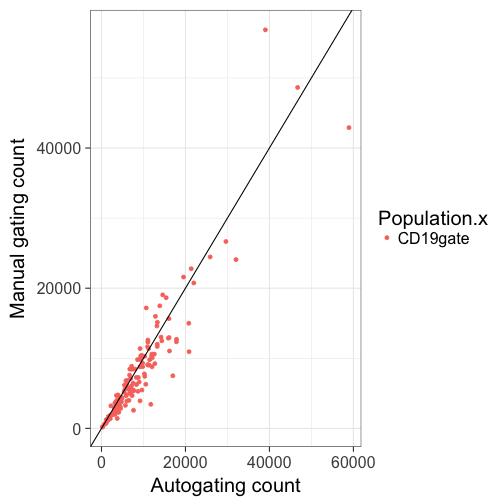
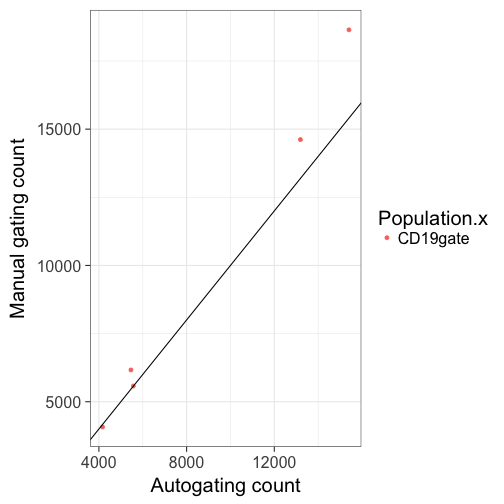
:floppy_disk:

diff --git a/report/rep1.md b/report/rep1.md
@@ -80,16 +80,16 @@ class: esmall-table
 ![plot of chunk unnamed-chunk-1](rep1-figure/unnamed-chunk-1-1.png)
 
 
-| N_SAMPS| N_DATA|    RHO|  BETA| BETA_SE|     R2|  ICC_1|
-|-------:|------:|------:|-----:|-------:|------:|------:|
-|     151|   2265| 0.9867| 1.015|  0.0014| 0.9956| 0.9977|
+| N_SAMPS| N_DATA|    RHO|   BETA| BETA_SE|     R2|  ICC_1|
+|-------:|------:|------:|------:|-------:|------:|------:|
+|       5|     75| 0.9356| 0.9228|  0.0102| 0.9911| 0.9918|
 ***
 ![plot of chunk unnamed-chunk-3](rep1-figure/unnamed-chunk-3-1.png)
 
 
 | N_SAMPS| N_DATA|    RHO|   BETA| BETA_SE|     R2|  ICC_1|
 |-------:|------:|------:|------:|-------:|------:|------:|
-|     151|   2265| 0.9811| 0.9879|  0.0029| 0.9809| 0.9903|
+|       5|     75| 0.8775| 0.8928|   0.043| 0.8551| 0.9251|
 
 Lymphocytes (SSC-A v FSC-A)
 ========================================================
@@ -98,16 +98,16 @@ class: esmall-table
 ![plot of chunk unnamed-chunk-5](rep1-figure/unnamed-chunk-5-1.png)
 
 
-| N_SAMPS| N_DATA|    RHO|  BETA| BETA_SE|     R2|  ICC_1|
-|-------:|------:|------:|-----:|-------:|------:|------:|
-|     151|    151| 0.9883| 1.014|  0.0078| 0.9913| 0.9954|
+| N_SAMPS| N_DATA| RHO|   BETA| BETA_SE|     R2|  ICC_1|
+|-------:|------:|---:|------:|-------:|------:|------:|
+|       5|      5| 0.9| 0.9475|  0.0612| 0.9876| 0.9692|
 ***
 ![plot of chunk unnamed-chunk-7](rep1-figure/unnamed-chunk-7-1.png)
 
 
-| N_SAMPS| N_DATA|    RHO|  BETA| BETA_SE|     R2|  ICC_1|
-|-------:|------:|------:|-----:|-------:|------:|------:|
-|     151|    151| 0.9969| 1.038|   0.005| 0.9966| 0.9972|
+| N_SAMPS| N_DATA| RHO|  BETA| BETA_SE|    R2|  ICC_1|
+|-------:|------:|---:|-----:|-------:|-----:|------:|
+|       5|      5|   1| 1.024|  0.0191| 0.999| 0.9843|
 
 Single Cells (FSC-H v FSC-W)
 ========================================================
@@ -116,16 +116,16 @@ class: esmall-table
 ![plot of chunk unnamed-chunk-9](rep1-figure/unnamed-chunk-9-1.png)
 
 
-| N_SAMPS| N_DATA|    RHO|  BETA| BETA_SE|     R2|  ICC_1|
-|-------:|------:|------:|-----:|-------:|------:|------:|
-|     151|    151| 0.9824| 1.018|  0.0087| 0.9893| 0.9935|
+| N_SAMPS| N_DATA| RHO|   BETA| BETA_SE|     R2|  ICC_1|
+|-------:|------:|---:|------:|-------:|------:|------:|
+|       5|      5| 0.9| 0.9562|  0.0625| 0.9873| 0.9752|
 ***
 ![plot of chunk unnamed-chunk-11](rep1-figure/unnamed-chunk-11-1.png)
 
 
-| N_SAMPS| N_DATA|    RHO|   BETA| BETA_SE|     R2|   ICC_1|
-|-------:|------:|------:|------:|-------:|------:|-------:|
-|     151|    151| 0.0546| 0.0321|  0.0225| 0.0134| -0.0297|
+| N_SAMPS| N_DATA| RHO|   BETA| BETA_SE|     R2|   ICC_1|
+|-------:|------:|---:|------:|-------:|------:|-------:|
+|       5|      5| 0.7| 0.6352|  0.2409| 0.6985| -0.4447|
 
 
 Live cells (PE-)
@@ -135,16 +135,16 @@ class: esmall-table
 ![plot of chunk unnamed-chunk-13](rep1-figure/unnamed-chunk-13-1.png)
 
 
-| N_SAMPS| N_DATA|    RHO|  BETA| BETA_SE|    R2|  ICC_1|
-|-------:|------:|------:|-----:|-------:|-----:|------:|
-|     151|    151| 0.9822| 1.019|  0.0088| 0.989| 0.9933|
+| N_SAMPS| N_DATA| RHO|   BETA| BETA_SE|     R2|  ICC_1|
+|-------:|------:|---:|------:|-------:|------:|------:|
+|       5|      5| 0.9| 0.9544|  0.0626| 0.9873| 0.9748|
 ***
 ![plot of chunk unnamed-chunk-15](rep1-figure/unnamed-chunk-15-1.png)
 
 
-| N_SAMPS| N_DATA|   RHO|  BETA| BETA_SE|     R2|  ICC_1|
-|-------:|------:|-----:|-----:|-------:|------:|------:|
-|     151|    151| 0.679| 1.073|  0.0936| 0.4687| 0.6221|
+| N_SAMPS| N_DATA| RHO|  BETA| BETA_SE|     R2|  ICC_1|
+|-------:|------:|---:|-----:|-------:|------:|------:|
+|       5|      5| 0.9| 1.577|  0.2373| 0.9364| 0.8774|
 
 
 Tcells (CD3+ CD19-)
@@ -154,16 +154,16 @@ class: esmall-table
 ![plot of chunk unnamed-chunk-17](rep1-figure/unnamed-chunk-17-1.png)
 
 
-| N_SAMPS| N_DATA|    RHO|  BETA| BETA_SE|     R2|  ICC_1|
-|-------:|------:|------:|-----:|-------:|------:|------:|
-|     151|    151| 0.9958| 0.998|  0.0054| 0.9957| 0.9978|
+| N_SAMPS| N_DATA| RHO|   BETA| BETA_SE|     R2|  ICC_1|
+|-------:|------:|---:|------:|-------:|------:|------:|
+|       5|      5| 0.7| 0.9572|   0.017| 0.9991| 0.9949|
 ***
 ![plot of chunk unnamed-chunk-19](rep1-figure/unnamed-chunk-19-1.png)
 
 
-| N_SAMPS| N_DATA|    RHO|   BETA| BETA_SE|     R2|  ICC_1|
-|-------:|------:|------:|------:|-------:|------:|------:|
-|     151|    151| 0.9781| 0.9063|  0.0135| 0.9682| 0.9709|
+| N_SAMPS| N_DATA| RHO|   BETA| BETA_SE|     R2|  ICC_1|
+|-------:|------:|---:|------:|-------:|------:|------:|
+|       5|      5| 0.9| 0.9689|   0.097| 0.9708| 0.9761|
 
 Helper Tcells-CD4+
 ========================================================
@@ -172,16 +172,16 @@ class: esmall-table
 ![plot of chunk unnamed-chunk-21](rep1-figure/unnamed-chunk-21-1.png)
 
 
-| N_SAMPS| N_DATA|    RHO|  BETA| BETA_SE|     R2|  ICC_1|
-|-------:|------:|------:|-----:|-------:|------:|------:|
-|     151|    151| 0.9987| 1.004|   0.004| 0.9977| 0.9988|
+| N_SAMPS| N_DATA| RHO|   BETA| BETA_SE|    R2| ICC_1|
+|-------:|------:|---:|------:|-------:|-----:|-----:|
+|       5|      5|   1| 0.9861|  0.0184| 0.999| 0.999|
 ***
 ![plot of chunk unnamed-chunk-23](rep1-figure/unnamed-chunk-23-1.png)
 
 
-| N_SAMPS| N_DATA|    RHO|   BETA| BETA_SE|     R2|  ICC_1|
-|-------:|------:|------:|------:|-------:|------:|------:|
-|     151|    151| 0.9933| 0.9647|  0.0128| 0.9744| 0.9868|
+| N_SAMPS| N_DATA| RHO|   BETA| BETA_SE|     R2|  ICC_1|
+|-------:|------:|---:|------:|-------:|------:|------:|
+|       5|      5| 0.9| 0.9839|  0.0329| 0.9967| 0.9916|
 
 central memory helper Tcells (CCR7+ CD45RA-)
 ========================================================
@@ -190,16 +190,16 @@ class: esmall-table
 ![plot of chunk unnamed-chunk-25](rep1-figure/unnamed-chunk-25-1.png)
 
 
-| N_SAMPS| N_DATA|  RHO|   BETA| BETA_SE|     R2|  ICC_1|
-|-------:|------:|----:|------:|-------:|------:|------:|
-|     151|    151| 0.98| 0.9237|  0.0204| 0.9323| 0.9649|
+| N_SAMPS| N_DATA| RHO|   BETA| BETA_SE|     R2|  ICC_1|
+|-------:|------:|---:|------:|-------:|------:|------:|
+|       5|      5| 0.9| 0.6178|  0.0765| 0.9561| 0.8919|
 ***
 ![plot of chunk unnamed-chunk-27](rep1-figure/unnamed-chunk-27-1.png)
 
 
-| N_SAMPS| N_DATA|    RHO|   BETA| BETA_SE|     R2|  ICC_1|
-|-------:|------:|------:|------:|-------:|------:|------:|
-|     151|    151| 0.9154| 0.8088|  0.0318| 0.8131| 0.8969|
+| N_SAMPS| N_DATA| RHO|   BETA| BETA_SE|     R2| ICC_1|
+|-------:|------:|---:|------:|-------:|------:|-----:|
+|       5|      5| 0.4| 0.1211|  0.1594| 0.1613| 0.325|
 
 effector helper Tcells (CCR7- CD45RA+)
 ========================================================
@@ -208,16 +208,16 @@ class: esmall-table
 ![plot of chunk unnamed-chunk-29](rep1-figure/unnamed-chunk-29-1.png)
 
 
-| N_SAMPS| N_DATA|    RHO|   BETA| BETA_SE|     R2|  ICC_1|
-|-------:|------:|------:|------:|-------:|------:|------:|
-|     151|    151| 0.7922| 0.8244|  0.0381| 0.7587| 0.8653|
+| N_SAMPS| N_DATA|  RHO|   BETA| BETA_SE|     R2|   ICC_1|
+|-------:|------:|----:|------:|-------:|------:|-------:|
+|       5|      5| -0.5| -2.006|   2.643| 0.1611| -0.4093|
 ***
 ![plot of chunk unnamed-chunk-31](rep1-figure/unnamed-chunk-31-1.png)
 
 
-| N_SAMPS| N_DATA|    RHO|   BETA| BETA_SE|     R2|  ICC_1|
-|-------:|------:|------:|------:|-------:|------:|------:|
-|     151|    151| 0.7467| 0.8182|  0.0695| 0.4816| 0.6677|
+| N_SAMPS| N_DATA|  RHO|   BETA| BETA_SE|     R2|  ICC_1|
+|-------:|------:|----:|------:|-------:|------:|------:|
+|       5|      5| -0.4| -3.512|    3.36| 0.2669| -0.278|
 
 effector memory helper Tcells (CCR7- CD45RA-)
 ========================================================
@@ -226,16 +226,16 @@ class: esmall-table
 ![plot of chunk unnamed-chunk-33](rep1-figure/unnamed-chunk-33-1.png)
 
 
-| N_SAMPS| N_DATA|    RHO|   BETA| BETA_SE|     R2|  ICC_1|
-|-------:|------:|------:|------:|-------:|------:|------:|
-|     151|    151| 0.8791| 0.7816|  0.0312| 0.8082| 0.8757|
+| N_SAMPS| N_DATA| RHO|  BETA| BETA_SE|     R2|  ICC_1|
+|-------:|------:|---:|-----:|-------:|------:|------:|
+|       5|      5| 0.3| 1.077|  0.4636| 0.6428| 0.6567|
 ***
 ![plot of chunk unnamed-chunk-35](rep1-figure/unnamed-chunk-35-1.png)
 
 
-| N_SAMPS| N_DATA|    RHO|   BETA| BETA_SE|     R2|  ICC_1|
-|-------:|------:|------:|------:|-------:|------:|------:|
-|     151|    151| 0.8012| 0.7023|  0.0402| 0.6721| 0.7977|
+| N_SAMPS| N_DATA|  RHO|   BETA| BETA_SE|     R2|   ICC_1|
+|-------:|------:|----:|------:|-------:|------:|-------:|
+|       5|      5| -0.1| -1.355|   1.266| 0.2761| -0.4523|
 
 naive helper Tcells (CCR7+ CD45RA+)
 ========================================================
@@ -244,16 +244,16 @@ class: esmall-table
 ![plot of chunk unnamed-chunk-37](rep1-figure/unnamed-chunk-37-1.png)
 
 
-| N_SAMPS| N_DATA|    RHO|   BETA| BETA_SE|     R2|  ICC_1|
-|-------:|------:|------:|------:|-------:|------:|------:|
-|     151|    151| 0.9711| 0.9695|  0.0129| 0.9743| 0.9861|
+| N_SAMPS| N_DATA| RHO|   BETA| BETA_SE|     R2|   ICC_1|
+|-------:|------:|---:|------:|-------:|------:|-------:|
+|       5|      5|   0| -1.448|   1.882| 0.1648| -0.1666|
 ***
 ![plot of chunk unnamed-chunk-39](rep1-figure/unnamed-chunk-39-1.png)
 
 
-| N_SAMPS| N_DATA|    RHO|   BETA| BETA_SE|     R2|  ICC_1|
-|-------:|------:|------:|------:|-------:|------:|------:|
-|     151|    151| 0.9516| 0.7982|  0.0315| 0.8119| 0.8931|
+| N_SAMPS| N_DATA|  RHO|    BETA| BETA_SE|     R2|   ICC_1|
+|-------:|------:|----:|-------:|-------:|------:|-------:|
+|       5|      5| -0.1| -0.3909|  0.4293| 0.2165| -0.4385|
 
 
 cytotoxic Tcells-CD8+
@@ -263,16 +263,16 @@ class: esmall-table
 ![plot of chunk unnamed-chunk-41](rep1-figure/unnamed-chunk-41-1.png)
 
 
-| N_SAMPS| N_DATA|    RHO|   BETA| BETA_SE|    R2|  ICC_1|
-|-------:|------:|------:|------:|-------:|-----:|------:|
-|     151|    151| 0.9866| 0.9615|  0.0192| 0.944| 0.9712|
+| N_SAMPS| N_DATA| RHO|   BETA| BETA_SE|     R2|  ICC_1|
+|-------:|------:|---:|------:|-------:|------:|------:|
+|       5|      5|   1| 0.9957|  0.0433| 0.9944| 0.9841|
 ***
 ![plot of chunk unnamed-chunk-43](rep1-figure/unnamed-chunk-43-1.png)
 
 
-| N_SAMPS| N_DATA|    RHO|   BETA| BETA_SE|     R2|  ICC_1|
-|-------:|------:|------:|------:|-------:|------:|------:|
-|     151|    151| 0.9688| 0.9794|  0.0226| 0.9268| 0.9612|
+| N_SAMPS| N_DATA| RHO|   BETA| BETA_SE|     R2|  ICC_1|
+|-------:|------:|---:|------:|-------:|------:|------:|
+|       5|      5|   1| 0.9952|  0.0239| 0.9983| 0.9977|
 
 
 B cells (CD3- CD19+) 
@@ -282,16 +282,16 @@ class: esmall-table
 ![plot of chunk unnamed-chunk-45](rep1-figure/unnamed-chunk-45-1.png)
 
 
-| N_SAMPS| N_DATA|    RHO|   BETA| BETA_SE|     R2|  ICC_1|
-|-------:|------:|------:|------:|-------:|------:|------:|
-|     151|    151| 0.9379| 0.9252|  0.0296| 0.8676| 0.9261|
+| N_SAMPS| N_DATA| RHO|  BETA| BETA_SE|     R2|  ICC_1|
+|-------:|------:|---:|-----:|-------:|------:|------:|
+|       5|      5| 0.9| 1.244|  0.0588| 0.9933| 0.9618|
 ***
 ![plot of chunk unnamed-chunk-47](rep1-figure/unnamed-chunk-47-1.png)
 
 
-| N_SAMPS| N_DATA|    RHO|  BETA| BETA_SE|     R2|  ICC_1|
-|-------:|------:|------:|-----:|-------:|------:|------:|
-|     151|    151| 0.8811| 1.002|  0.0429| 0.7858| 0.8715|
+| N_SAMPS| N_DATA| RHO|  BETA| BETA_SE|     R2|  ICC_1|
+|-------:|------:|---:|-----:|-------:|------:|------:|
+|       5|      5| 0.9| 1.601|  0.0942| 0.9897| 0.8465|
 
 naive Bcells (CD27- IgD+)
 ========================================================
@@ -300,16 +300,16 @@ class: esmall-table
 ![plot of chunk unnamed-chunk-49](rep1-figure/unnamed-chunk-49-1.png)
 
 
-| N_SAMPS| N_DATA|    RHO|   BETA| BETA_SE|     R2|  ICC_1|
-|-------:|------:|------:|------:|-------:|------:|------:|
-|     151|    151| 0.9091| 0.8172|  0.0403| 0.7341| 0.8424|
+| N_SAMPS| N_DATA| RHO|  BETA| BETA_SE|     R2|  ICC_1|
+|-------:|------:|---:|-----:|-------:|------:|------:|
+|       5|      5|   1| 1.172|  0.0154| 0.9995| 0.9807|
 ***
 ![plot of chunk unnamed-chunk-51](rep1-figure/unnamed-chunk-51-1.png)
 
 
-| N_SAMPS| N_DATA|    RHO|   BETA| BETA_SE|     R2|  ICC_1|
-|-------:|------:|------:|------:|-------:|------:|------:|
-|     151|    151| 0.9138| 0.8508|  0.0366| 0.7837| 0.8686|
+| N_SAMPS| N_DATA| RHO|   BETA| BETA_SE|     R2|  ICC_1|
+|-------:|------:|---:|------:|-------:|------:|------:|
+|       5|      5|   1| 0.9748|  0.0498| 0.9922| 0.9955|
 
 IgD- memory Bcells (CD27+)
 ========================================================
@@ -318,16 +318,16 @@ class: esmall-table
 ![plot of chunk unnamed-chunk-53](rep1-figure/unnamed-chunk-53-1.png)
 
 
-| N_SAMPS| N_DATA|    RHO|  BETA| BETA_SE|     R2|  ICC_1|
-|-------:|------:|------:|-----:|-------:|------:|------:|
-|     151|    151| 0.8225| 1.159|  0.0443| 0.8212| 0.8766|
+| N_SAMPS| N_DATA| RHO|  BETA| BETA_SE|     R2|  ICC_1|
+|-------:|------:|---:|-----:|-------:|------:|------:|
+|       5|      5|   1| 1.082|  0.0417| 0.9956| 0.9873|
 ***
 ![plot of chunk unnamed-chunk-55](rep1-figure/unnamed-chunk-55-1.png)
 
 
-| N_SAMPS| N_DATA|    RHO|   BETA| BETA_SE|     R2|  ICC_1|
-|-------:|------:|------:|------:|-------:|------:|------:|
-|     151|    151| 0.8065| 0.4613|  0.0448| 0.4153| 0.5768|
+| N_SAMPS| N_DATA| RHO|  BETA| BETA_SE|     R2|  ICC_1|
+|-------:|------:|---:|-----:|-------:|------:|------:|
+|       5|      5|   1| 1.186|  0.0353| 0.9973| 0.9855|
 
 IgD+ memory Bcells (CD27+)
 ========================================================
@@ -336,16 +336,16 @@ class: esmall-table
 ![plot of chunk unnamed-chunk-57](rep1-figure/unnamed-chunk-57-1.png)
 
 
-| N_SAMPS| N_DATA|    RHO|   BETA| BETA_SE|    R2|  ICC_1|
-|-------:|------:|------:|------:|-------:|-----:|------:|
-|     151|    151| 0.9208| 0.7128|  0.0113| 0.964| 0.9251|
+| N_SAMPS| N_DATA| RHO|  BETA| BETA_SE|     R2|  ICC_1|
+|-------:|------:|---:|-----:|-------:|------:|------:|
+|       5|      5|   1| 0.875|  0.0539| 0.9887| 0.9566|
 ***
 ![plot of chunk unnamed-chunk-59](rep1-figure/unnamed-chunk-59-1.png)
 
 
-| N_SAMPS| N_DATA|    RHO|   BETA| BETA_SE|     R2|  ICC_1|
-|-------:|------:|------:|------:|-------:|------:|------:|
-|     151|    151| 0.8842| 0.7353|  0.0349| 0.7488| 0.8423|
+| N_SAMPS| N_DATA| RHO|   BETA| BETA_SE|     R2|  ICC_1|
+|-------:|------:|---:|------:|-------:|------:|------:|
+|       5|      5|   1| 0.8751|   0.045| 0.9921| 0.9694|
 
 
 Summary
